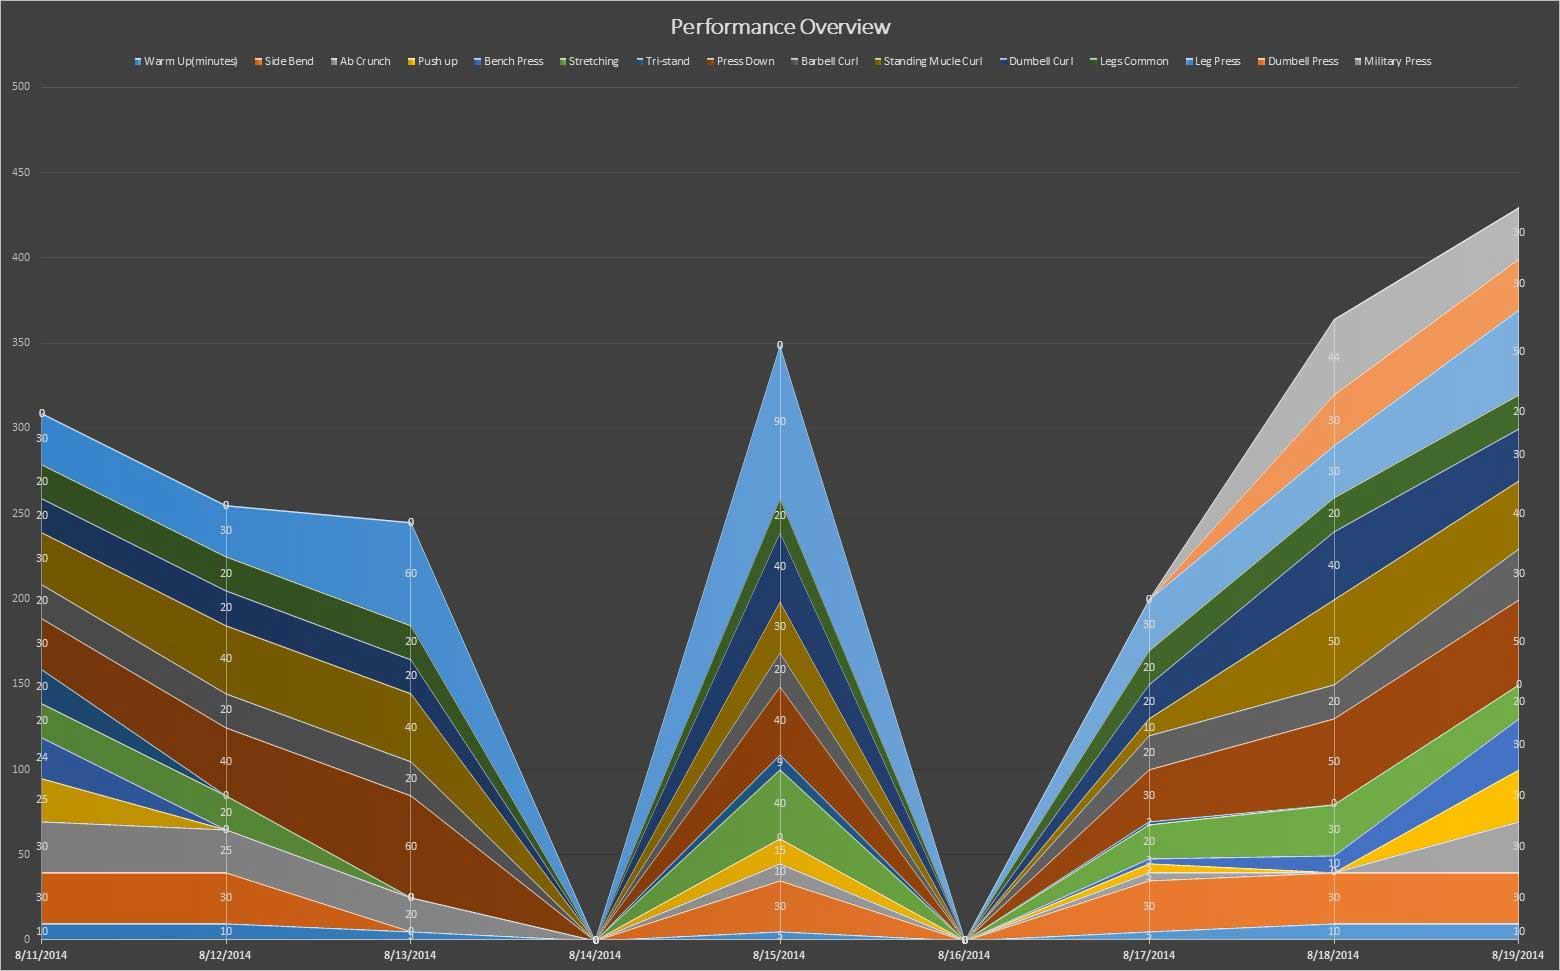
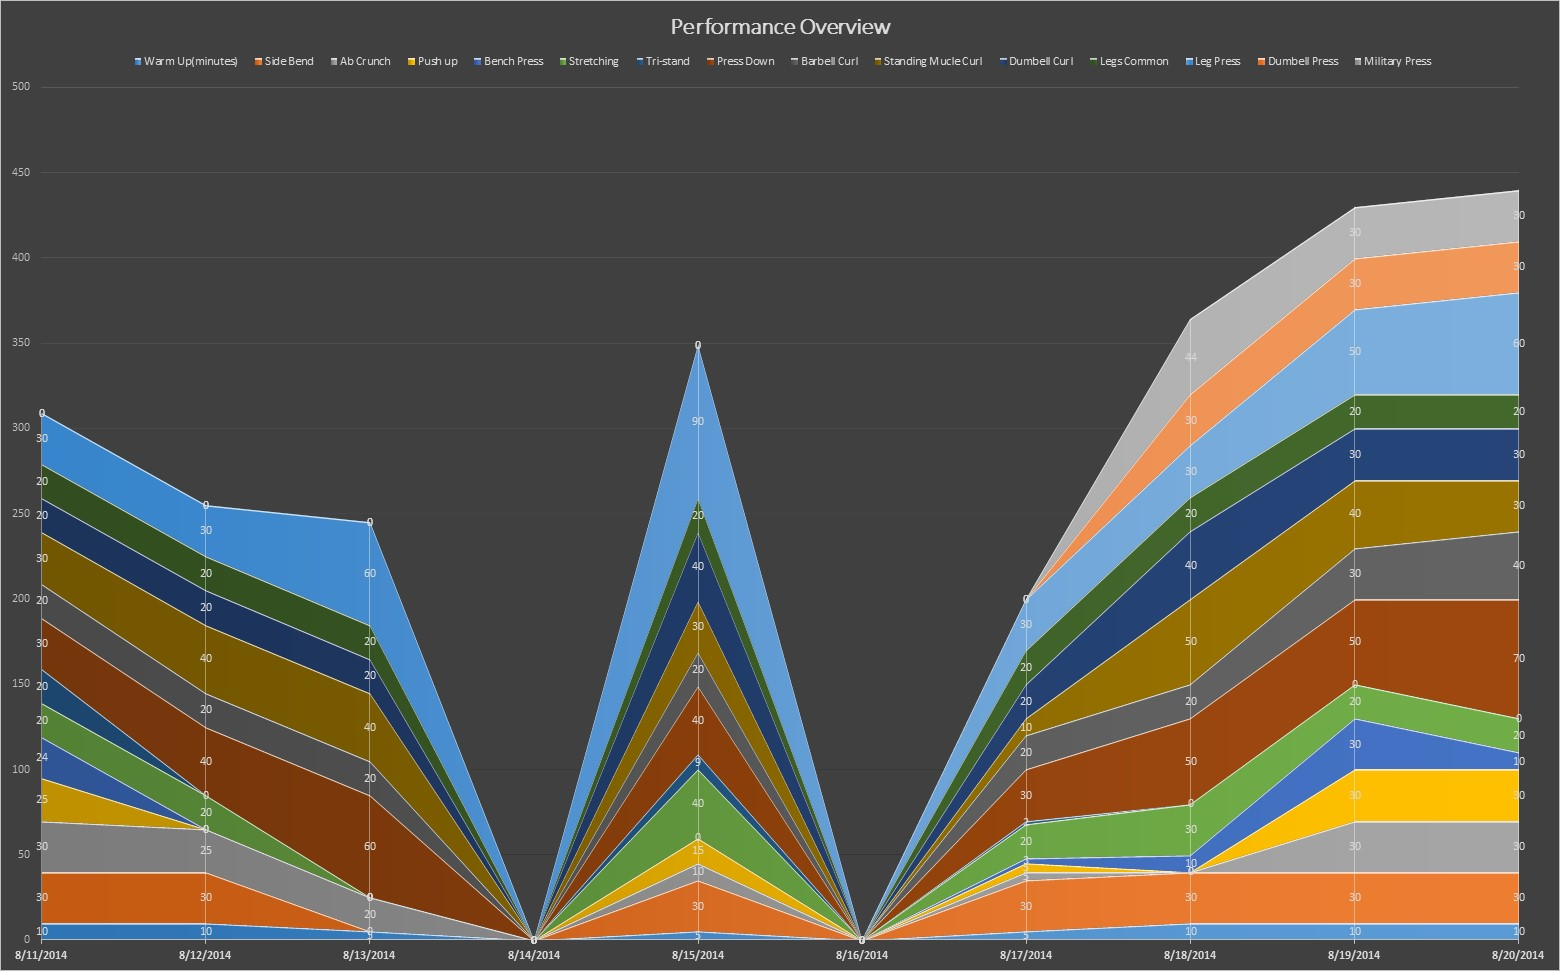
Fitness Update 8/20/2014

diff --git a/_includes/fitnesstracker.html b/_includes/fitnesstracker.html
@@ -86,6 +86,14 @@
 					"title": "8/19/2014",
 					"type": "column",
 					"valueField": "8/19/2014"
+				},
+				{
+					"balloonText": "[[category]]: [[value]] times on [[title]]",
+					"fillAlphas": 1,
+					"id": "8/20/2014",
+					"title": "8/20/2014",
+					"type": "column",
+					"valueField": "8/20/2014"
 				}
 			],
 			"guides": [],
@@ -119,7 +127,8 @@
 					"8/17/2014": "5",
 					"Exercises": "Warm Up(minutes)",
 					"8/18/2014": "10",
-					"8/19/2014": "10"
+					"8/19/2014": "10",
+					"8/20/2014": "10"
 				},
 				{
 					"8/11/2014": "30",
@@ -131,7 +140,8 @@
 					"8/17/2014": "30",
 					"Exercises": "Side Bend",
 					"8/18/2014": "30",
-					"8/19/2014": "30"
+					"8/19/2014": "30",
+					"8/20/2014": "30"
 				},
 				{
 					"8/11/2014": "30",
@@ -143,7 +153,8 @@
 					"8/17/2014": "5",
 					"Exercises": "Ab Crunch",
 					"8/18/2014": "0",
-					"8/19/2014": "30"
+					"8/19/2014": "30",
+					"8/20/2014": "30"
 				},
 				{
 					"8/11/2014": "25",
@@ -155,7 +166,8 @@
 					"8/17/2014": "5",
 					"Exercises": "Push up",
 					"8/18/2014": "0",
-					"8/19/2014": "30"
+					"8/19/2014": "30",
+					"8/20/2014": "30"
 				},
 				{
 					"8/11/2014": "24",
@@ -167,7 +179,8 @@
 					"8/17/2014": "3",
 					"Exercises": "Bench Press",
 					"8/18/2014": "10",
-					"8/19/2014": "30"
+					"8/19/2014": "30",
+					"8/20/2014": "10"
 				},
 				{
 					"8/11/2014": "20",
@@ -179,7 +192,8 @@
 					"8/17/2014": "20",
 					"Exercises": "Stretching",
 					"8/18/2014": "30",
-					"8/19/2014": "20"
+					"8/19/2014": "20",
+					"8/20/2014": "20"
 				},
 				{
 					"8/11/2014": "20",
@@ -191,7 +205,8 @@
 					"8/17/2014": "2",
 					"Exercises": "Tri-stand",
 					"8/18/2014": "0",
-					"8/19/2014": "0"
+					"8/19/2014": "0",
+					"8/20/2014": "0"
 				},
 				{
 					"8/11/2014": "30",
@@ -203,7 +218,8 @@
 					"8/17/2014": "30",
 					"Exercises": "Press Down",
 					"8/18/2014": "50",
-					"8/19/2014": "50"
+					"8/19/2014": "50",
+					"8/20/2014": "70"
 				},
 				{
 					"8/11/2014": "20",
@@ -215,7 +231,8 @@
 					"8/17/2014": "20",
 					"Exercises": "Barbell Curl",
 					"8/18/2014": "20",
-					"8/19/2014": "30"
+					"8/19/2014": "30",
+					"8/20/2014": "40"
 				},
 				{
 					"8/11/2014": "30",
@@ -227,7 +244,8 @@
 					"8/17/2014": "10",
 					"Exercises": "Standing Mucle Curl",
 					"8/18/2014": "50",
-					"8/19/2014": "40"
+					"8/19/2014": "40",
+					"8/20/2014": "30"
 				},
 				{
 					"8/11/2014": "20",
@@ -239,7 +257,8 @@
 					"8/17/2014": "20",
 					"Exercises": "Dumbell Curl",
 					"8/18/2014": "40",
-					"8/19/2014": "30"
+					"8/19/2014": "30",
+					"8/20/2014": "30"
 				},
 				{
 					"8/11/2014": "20",
@@ -251,7 +270,8 @@
 					"8/17/2014": "20",
 					"Exercises": "Legs Common",
 					"8/18/2014": "20",
-					"8/19/2014": "20"
+					"8/19/2014": "20",
+					"8/20/2014": "20"
 				},
 				{
 					"8/11/2014": "30",
@@ -263,7 +283,8 @@
 					"8/17/2014": "30",
 					"Exercises": "Leg Press",
 					"8/18/2014": "30",
-					"8/19/2014": "50"
+					"8/19/2014": "50",
+					"8/20/2014": "60"
 				},
 				{
 					"8/11/2014": "0",
@@ -275,7 +296,8 @@
 					"8/17/2014": "0",
 					"Exercises": "Dumbell Press",
 					"8/18/2014": "30",
-					"8/19/2014": "30"
+					"8/19/2014": "30",
+					"8/20/2014": "30"
 				},
 				{
 					"8/11/2014": "0",
@@ -287,7 +309,8 @@
 					"8/17/2014": "0",
 					"Exercises": "Military Press",
 					"8/18/2014": "44",
-					"8/19/2014": "30"
+					"8/19/2014": "30",
+					"8/20/2014": "30"
 				}
 			]
 		}

diff --git a/_posts/2014-08-11-fitness-tracker.md b/_posts/2014-08-11-fitness-tracker.md
@@ -3,7 +3,7 @@ layout: post
 title: "Fitness Tracker"
 description: Tracking my gym activities
 headline: 
-modified: 2014-08-19 17:01:00 +0600
+modified: 2014-08-20 17:31:00 +0600
 category: personal
 tags: [gym, fitness]
 imagefeature: 
@@ -45,6 +45,7 @@ So I created this excel sheet recording my daily workout routine. This graph is 
     <th class="tg-031e">8/17/2014</th>
     <th class="tg-031e">8/18/2014</th>
     <th class="tg-031e">8/19/2014</th>
+    <th class="tg-031e">8/20/2014</th>
   </tr>
   <tr>
     <td class="tg-z2zr">Warm Up(minutes)</td>
@@ -57,6 +58,7 @@ So I created this excel sheet recording my daily workout routine. This graph is 
     <td class="tg-z2zr">5</td>
     <td class="tg-z2zr">10</td>
     <td class="tg-z2zr">10</td>
+    <td class="tg-z2zr">10</td>
   </tr>
   <tr>
     <td class="tg-031e">Side Bend</td>
@@ -66,6 +68,7 @@ So I created this excel sheet recording my daily workout routine. This graph is 
     <td class="tg-031e">0</td>
     <td class="tg-031e">30</td>
     <td class="tg-031e">0</td>
+    <td class="tg-031e">30</td>
     <td class="tg-031e">30</td>
     <td class="tg-031e">30</td>
     <td class="tg-031e">30</td>
@@ -81,6 +84,7 @@ So I created this excel sheet recording my daily workout routine. This graph is 
     <td class="tg-z2zr">5</td>
     <td class="tg-z2zr">0</td>
     <td class="tg-z2zr">30</td>
+    <td class="tg-z2zr">30</td>
   </tr>
   <tr>
     <td class="tg-031e">Push up</td>
@@ -92,6 +96,7 @@ So I created this excel sheet recording my daily workout routine. This graph is 
     <td class="tg-031e">0</td>
     <td class="tg-031e">5</td>
     <td class="tg-031e">0</td>
+    <td class="tg-031e">30</td>
     <td class="tg-031e">30</td>
   </tr>
   <tr>
@@ -105,6 +110,7 @@ So I created this excel sheet recording my daily workout routine. This graph is 
     <td class="tg-z2zr">3</td>
     <td class="tg-z2zr">10</td>
     <td class="tg-z2zr">30</td>
+    <td class="tg-z2zr">10</td>
   </tr>
   <tr>
     <td class="tg-031e">Stretching</td>
@@ -117,6 +123,7 @@ So I created this excel sheet recording my daily workout routine. This graph is 
     <td class="tg-031e">20</td>
     <td class="tg-031e">30</td>
     <td class="tg-031e">20</td>
+    <td class="tg-031e">20</td>
   </tr>
   <tr>
     <td class="tg-z2zr">Tri-stand</td>
@@ -127,6 +134,7 @@ So I created this excel sheet recording my daily workout routine. This graph is 
     <td class="tg-z2zr">9</td>
     <td class="tg-z2zr">0</td>
     <td class="tg-z2zr">2</td>
+    <td class="tg-z2zr">0</td>
     <td class="tg-z2zr">0</td>
     <td class="tg-z2zr">0</td>
   </tr>
@@ -141,6 +149,7 @@ So I created this excel sheet recording my daily workout routine. This graph is 
     <td class="tg-031e">30</td>
     <td class="tg-031e">50</td>
     <td class="tg-031e">50</td>
+    <td class="tg-031e">70</td>
   </tr>
   <tr>
     <td class="tg-z2zr">Barbell Curl</td>
@@ -153,6 +162,7 @@ So I created this excel sheet recording my daily workout routine. This graph is 
     <td class="tg-z2zr">20</td>
     <td class="tg-z2zr">20</td>
     <td class="tg-z2zr">30</td>
+    <td class="tg-z2zr">40</td>
   </tr>
   <tr>
     <td class="tg-031e">Standing Mucle Curl</td>
@@ -165,6 +175,7 @@ So I created this excel sheet recording my daily workout routine. This graph is 
     <td class="tg-031e">10</td>
     <td class="tg-031e">50</td>
     <td class="tg-031e">40</td>
+    <td class="tg-031e">30</td>
   </tr>
   <tr>
     <td class="tg-z2zr">Dumbell Curl</td>
@@ -177,6 +188,7 @@ So I created this excel sheet recording my daily workout routine. This graph is 
     <td class="tg-z2zr">20</td>
     <td class="tg-z2zr">40</td>
     <td class="tg-z2zr">30</td>
+    <td class="tg-z2zr">30</td>
   </tr>
   <tr>
     <td class="tg-031e">Legs Common</td>
@@ -186,6 +198,7 @@ So I created this excel sheet recording my daily workout routine. This graph is 
     <td class="tg-031e">0</td>
     <td class="tg-031e">20</td>
     <td class="tg-031e">0</td>
+    <td class="tg-031e">20</td>
     <td class="tg-031e">20</td>
     <td class="tg-031e">20</td>
     <td class="tg-031e">20</td>
@@ -201,6 +214,7 @@ So I created this excel sheet recording my daily workout routine. This graph is 
     <td class="tg-z2zr">30</td>
     <td class="tg-z2zr">30</td>
     <td class="tg-z2zr">50</td>
+    <td class="tg-z2zr">60</td>
   </tr>
   <tr>
     <td class="tg-031e">Dumbell Press</td>
@@ -211,6 +225,7 @@ So I created this excel sheet recording my daily workout routine. This graph is 
     <td class="tg-031e">0</td>
     <td class="tg-031e">0</td>
     <td class="tg-031e">0</td>
+    <td class="tg-031e">30</td>
     <td class="tg-031e">30</td>
     <td class="tg-031e">30</td>
   </tr>
@@ -224,6 +239,7 @@ So I created this excel sheet recording my daily workout routine. This graph is 
     <td class="tg-z2zr">0</td>
     <td class="tg-z2zr">0</td>
     <td class="tg-z2zr">44</td>
+    <td class="tg-z2zr">30</td>
     <td class="tg-z2zr">30</td>
   </tr>
 </table>
